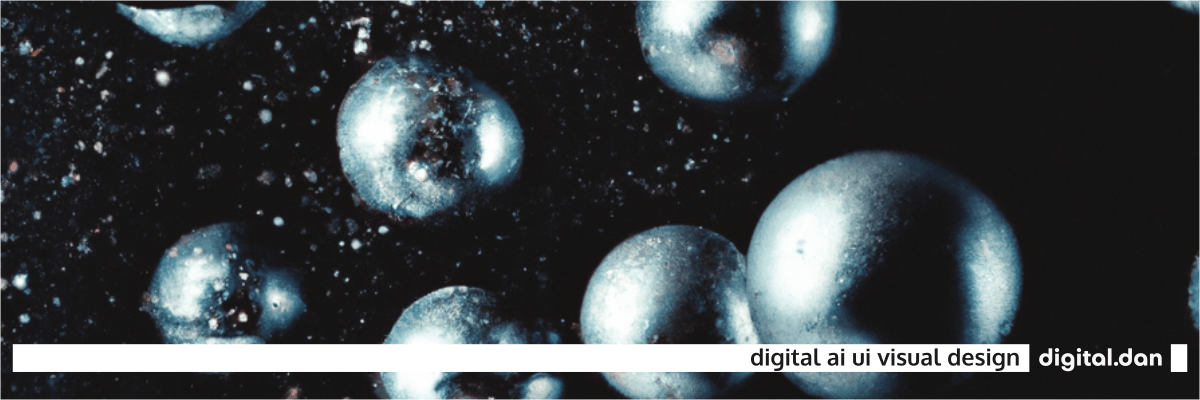
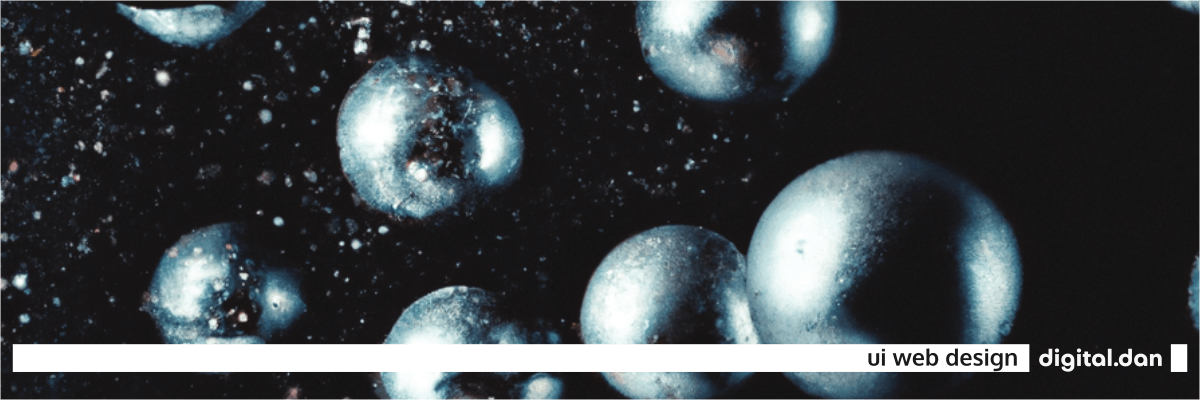
ui updates monday

Changed region(s): [[0.6167, 0.87, 0.9558, 0.93]]

diff --git a/components/Work.js b/components/Work.js
@@ -16,10 +16,7 @@ const Work = () => {
     return (
         <>
             <main id="Work" className="h-auto flex flex-col justify-center items-center pb-[10rem] lg:pb-[15rem]">
-                <Casestudyimage>
-                    <img src='/ubg1.png'
-                        alt="Upper Burger portfolio redesign"
-                    /></Casestudyimage>
+
 
                 <section className="lg:w-[80vw] h-auto md:py-[10vh] flex flex-col justify-start gap-12 mx-auto mt-[15vh] 
                 mb-[15vh]">
@@ -48,6 +45,10 @@ const Work = () => {
                         </div>
                     </div>
                 </section>
+                <Casestudyimage>
+                    <img src='/ubg1.png'
+                        alt="Upper Burger portfolio redesign"
+                    /></Casestudyimage>
                 <div className='lg:w-[65%]'></div>
                 <Casestudyimage>
                     <img src='/ubg4.png'
@@ -63,10 +64,7 @@ const Work = () => {
                         alt="Upper Burger portfolio redesign"
                     /></Casestudyimage>
 
-                <Casestudyimage>
-                    <img src='/as2.png'
-                        alt="Upper Burger portfolio redesign"
-                    /></Casestudyimage>
+
                 <section id="ASnew"
                     className="lg:w-[80vw] h-auto flex flex-col justify-start lg:gap-12 mx-auto my-[15vh]">
 
@@ -89,6 +87,10 @@ const Work = () => {
                     </div>
                 </section>
                 <Casestudyimage>
+                    <img src='/as2.png'
+                        alt="Upper Burger portfolio redesign"
+                    /></Casestudyimage>
+                <Casestudyimage>
                     <img src='/as1.png'
                         alt="Upper Burger portfolio redesign"
                     /></Casestudyimage>
@@ -104,9 +106,7 @@ const Work = () => {
 
 
 
-                <Casestudyimage><img src='/beau1.png'
-                    alt="AS portfolio redesign"
-                /></Casestudyimage>
+
                 <section className="lg:w-[80vw] h-auto flex flex-col justify-start gap-12 mx-auto mt-[15vh] mb-[15vh]">
 
 
@@ -126,76 +126,44 @@ const Work = () => {
                                     <BsArrowUpRight /> </ArrowLinks>  </a>
                         </Link>
                     </div> </section>
+                <Casestudyimage><img src='/beau1.png'
+                    alt="AS portfolio redesign"
+                /></Casestudyimage>
                 <Casestudyimage><img src='/beau2.png'
                     alt="AS portfolio redesign"
                 /></Casestudyimage>
                 <Casestudyimage><img src='/beau3.png'
                     alt="AS portfolio redesign"
                 /></Casestudyimage>
+                <section className="lg:w-[80vw] h-auto flex flex-col justify-start gap-12 mx-auto mt-[15vh] mb-[15vh]">
 
+                    <div className="w-fit">
+                        <Borders>
+                            <motion.p whileInView={paragraphAnimate} className="paragraph lg:w-[40ch] pt-3 pr-8 ">
+                                Your new job thanks to a strong online presence. Giving you an egde in competitive markets. </motion.p></Borders>
+                    </div><br />
 
+                    <Link href="https://ddshowcase3.netlify.app/"
+                    >
+                        <a target={'_blank'}
+                            rel={'noreferrer noopener'}>
+                            <ArrowLinks>
+                                website prototype (new tab) <BsArrowUpRight />
+                            </ArrowLinks></a>
+                    </Link>
 
-
+                </section>
                 <Casestudyimage>
                     <img src='/dev1.png'
                         alt="AS portfolio redesign"
 
                     /></Casestudyimage>
-
-                <section className="lg:w-[80vw] h-auto flex flex-col justify-start gap-12 mx-auto mt-[15vh] mb-[15vh]">
-
-
-                    <div className="lg:w-[50%]">
-                        <div className="w-fit">
-                            <Borders>
-                                <motion.p whileInView={paragraphAnimate} className="paragraph lg:w-[40ch] pt-3 pr-8 ">
-                                    Your new job thanks to a strong online presence. Giving you an egde in competitive markets. </motion.p></Borders>
-                        </div><br />
-
-                        <Link href="https://ddshowcase3.netlify.app/"
-                        >
-                            <a target={'_blank'}
-                                rel={'noreferrer noopener'}>
-                                <ArrowLinks>
-                                    website prototype (new tab) <BsArrowUpRight />
-                                </ArrowLinks></a>
-                        </Link>
-                    </div>
-                </section>
                 <Casestudyimage>
                     <img src='/desk1.png'
                         alt="AS portfolio redesign"
 
                     /></Casestudyimage>
 
-
-                <Casestudyimage>
-                    <img src='/soc1.png'
-                        alt="AS portfolio redesign"
-
-                    /></Casestudyimage>
-                <section className="lg:w-[80vw] h-auto flex flex-col justify-start gap-12 mx-auto mt-[15vh] mb-[15vh]">
-
-                    <div className="lg:w-[50%]">
-
-                        <div className="w-fit">
-                            <Borders>
-                                <motion.p whileInView={paragraphAnimate} className="paragraph lg:w-[40ch] pt-3 pr-8 ">
-                                    Online Advertisement: Using visual power and proven design rules to help you get noticed in a sea of information.  </motion.p></Borders>
-                        </div><br />
-                    </div>    </section>
-                <Casestudyimage>
-                    <img src='/soc2.png'
-                        alt="AS portfolio redesign"
-
-                    /></Casestudyimage>
-
-
-                <Casestudyimage>
-                    <img src='/noway.png'
-                        alt="AS portfolio redesign"
-
-                    /></Casestudyimage>
                 <section id="Selfbrand"
                     className="lg:w-[80vw] h-auto flex flex-col justify-start gap-12 mx-auto mt-[15vh] mb-[15vh]">
 
@@ -204,24 +172,29 @@ const Work = () => {
                         <div className="w-fit">
                             <Borders>
                                 <motion.p whileInView={paragraphAnimate} className="paragraph lg:w-[40ch] pt-3 pr-8">
-                                    Website and ads for a picky client: myself. AI helped out with ideas.
+                                    Website and social media assets for a picky client: myself.
                                     <br /></motion.p></Borders>
                         </div><br />
-
                     </div>
                 </section>
-                <Casestudyimage>
-                    <img src='/noway2.png'
-                        alt="AS portfolio redesign"
-
-                    /></Casestudyimage>
-                <div className="w-[75%]"></div>
-
                 <Casestudyimage>
                     <img src='/ddfonts.png'
                         alt="AS portfolio redesign"
                     /></Casestudyimage>
+                <Casestudyimage>
+                    <img src='/ddmob1.png'
+                        alt="AS portfolio redesign"
+                    /></Casestudyimage>
+                <Casestudyimage>
+                    <img src='/ddtab.png'
+                        alt="AS portfolio redesign"
 
+                    /></Casestudyimage>
+                <Casestudyimage>
+                    <img src='/noway.png'
+                        alt="AS portfolio redesign"
+
+                    /></Casestudyimage>
 
                 <section id="Selfbrand"
                     className="lg:w-[80vw] h-auto flex flex-col justify-start gap-12 mx-auto mt-[15vh] mb-[15vh]">

diff --git a/pages/_app.js b/pages/_app.js
@@ -30,45 +30,40 @@ function Application({ Component, pageProps }) {
       <Head>
         <meta http-equiv="Content-Type" content="text/html;charset=UTF-8" />
         <meta name="viewport" content="width=device-width, initial-scale=1.0" />
-        <meta name="keywords" content="Senior digital designer
+        <meta name="keywords" content="UI Web designer
 UI designer
-Visual designer
+
 Portfolio
 Design projects
 User interface
 User experience
 Web design
 Mobile app design
-Graphic design
-Creative design solutions
-Digital branding
 Visual storytelling
 Typography
 Responsive design
 Interaction design
 User-centered design
-Illustration
-Prototyping
-Motion graphics"
+"
         />
-        <meta name="description" content="Welcome to the portfolio of Daniel Hubschmann, a senior digital, UI, and visual designer. Explore a collection of innovative designs, user-centric interfaces, and visually stunning projects." />
+        <meta name="description" content="Welcome to the portfolio of Daniel Hubschmann, UI and Web designer. Explore a collection of innovative designs, user-centric interfaces, and visually stunning projects." />
 
         <meta http-equiv="X-UA-Compatible" content="IE=7" />
-        <meta property="og:title" content="digital.dan Digital, AI, UI and Visual Design" />
-        <meta property="og:description" content="Welcome to the portfolio of Your Name, a senior digital, UI, and visual designer. 
+        <meta property="og:title" content="digital.dan UI and Web Design" />
+        <meta property="og:description" content="Welcome to the portfolio of Daniel Hubschmann, a UI and Web designer. 
         Explore a collection of innovative designs, user-centric interfaces, and visually stunning projects."/>
         <meta property="og:url" content="https://digitaldan.agency/" />
         <meta property="og:type" content="website" />
         <meta name="twitter:card" content="summary_large_image" />
-        <meta name="twitter:title" content="Senior Digital, AI, UI, and Visual Designer Portfolio - Your Name" />
-        <meta name="twitter:description" content="Welcome to the portfolio of Your Name, a senior digital, UI, and visual designer. Explore a collection of innovative designs, user-centric interfaces, and visually stunning projects." />
+        <meta name="twitter:title" content="UI and Web Designer Portfolio - Daniel Hubschmann digital.dan" />
+        <meta name="twitter:description" content="Welcome to the portfolio of Daniel Hubschmann digital.dan, a UI and Web designer. Explore a collection of innovative designs, user-centric interfaces, and visually stunning projects." />
         <meta name="twitter:image" content="https://example.com/your-image.jpg"></meta>
 
         <link rel="apple-touch-icon" sizes="180x180" href="/apple-touch-icon.png" />
         <link rel="icon" type="image/png" sizes="32x32" href="/favicon-32x32.png" />
         <link rel="icon" type="image/png" sizes="16x16" href="/favicon-16x16.png" />
         <link rel="manifest" href="/site.webmanifest" />
-        <title>Digital, UI, Visual Design - digital.dan</title>
+        <title>UI & Web Design - digital.dan</title>
       </Head>
 
 

diff --git a/components/Services.js b/components/Services.js
@@ -9,13 +9,18 @@ const Services = () => {
                     <ul className="herolinks p-[5vh] md:p-[5vh] landscape:w-[45vw]">
                         <li>About Me</li>
                         <Borders><div className="paragraph mr-[2rem]">
-                            <li>Daniel Hubschmann (Germany).</li>
-                            <li>Senior digital, ui and visual designer with over 20 years experience.</li>
+                            <li>Daniel Hubschmann (Germany).
+                                UI, web and graphic designer with over 20 years experience. I have been focusing on digital design in the recent decade.</li>
                             <br />
-                            <li>I can create timeless visuals, your client&apos;s investment will last for a long time.
+
+                            <li>Taking classic rules and the teachings of the art and design greats into the 21st century.</li>
+
+                            <br />
+
+                            <li>I can create timeless visuals for all industries, your client&apos;s investment will last for a long time.
+
                                 <br />
-                                <br />
-                                Taking classic rules and the teachings of the art and design greats into the 21st century.
+
                             </li>
                         </div> </Borders></ul>
                 </section>
@@ -25,10 +30,10 @@ const Services = () => {
                       landscape:w-[45vw]">
                         My Skills & Tools
                         <Borders><div className="paragraph">
-                            <li>Digital, user interface & visual design</li>
-                            <li>Proficient in HTML, CSS</li>
-                            <li>JavaScript & JavaScript framework basics for UI components </li>
-                            <li>Fields: Adverstisement (online & public), apps, websites, landing pages, events & presentations</li>
+                            <li>User interface & web design</li>
+                            <li>Proficient in HTML, CSS, Tailwind CSS</li>
+                            <li>JavaScript & JavaScript frameworks for UI components </li>
+                            <li>Fields: Adverstisement, apps, websites, landing pages, micro pages, events & presentations</li>
                             <li>Figma</li>
                             <li>Adobe Ae, Ps, Ai</li>
                             <li>Inkscape, Fusion, Blender</li>

diff --git a/components/Hero.js b/components/Hero.js
@@ -23,13 +23,12 @@ const Hero = () => {
             <motion.section className="md:px-[2rem] lg:pt-[5rem]">
                 <section>
                     <motion.h1 animate={wedesignAnimate} className="flex flex-col heroheader">
-                        <div className="text-center">
+                        <div className="flex flex-col justify-center items-center">
                             <Typeanimation /><br />
                             Design</div>
                         <motion.div animate={wedesignAnimate2} className="font-bold herosubtext
                         mt-[2.5rem] mx-auto">
-                            Daniel Hubschmann (Germany)<br />
-                            Senior Designer
+                            Daniel Hubschmann (Germany)
                             <div className="h-[2rem]"></div>
                             <ScrollArrow />
                         </motion.div>

diff --git a/components/Typeanimation.js b/components/Typeanimation.js
@@ -5,7 +5,7 @@ const Typeanimation = () => {
     return (
         <div className="h-[1rem] font-bold heroheader">
             <Typewriter
-                words={['Visual', 'AI', 'UI', 'Digital']}
+                words={['UI', 'Web']}
                 loop={false}
                 typespeed={10}
                 deletespeed={10}
